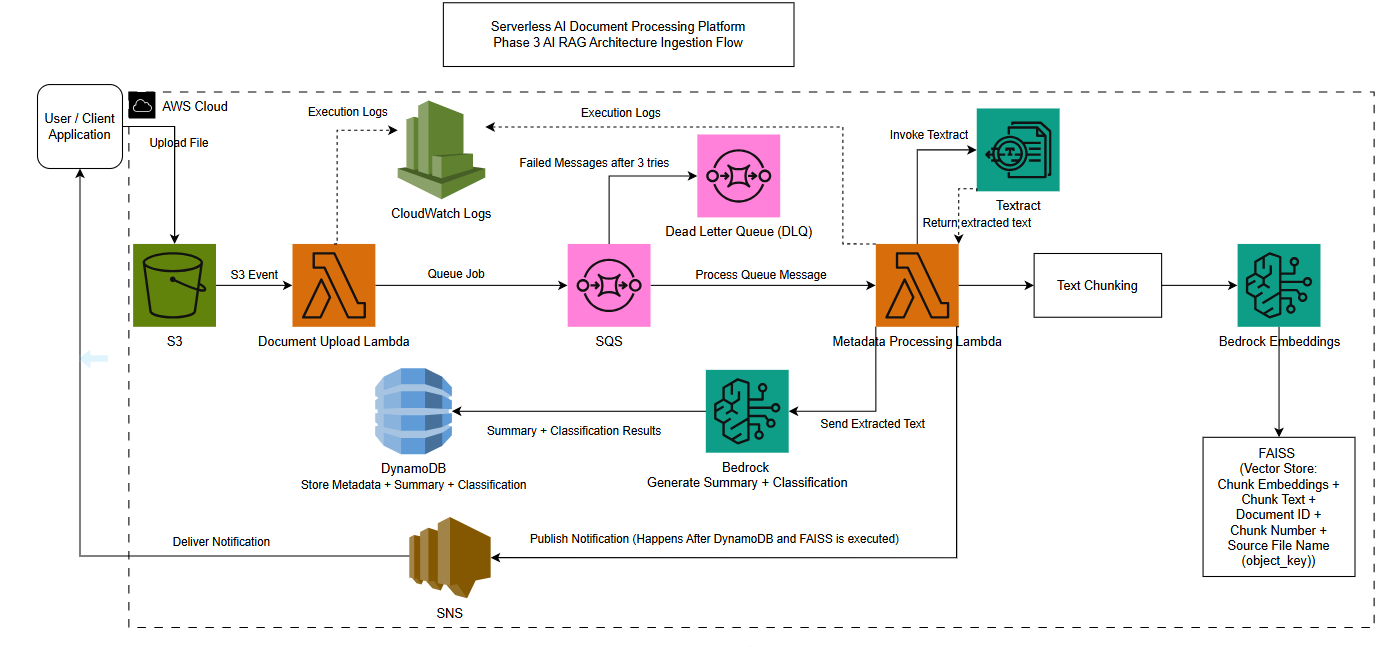
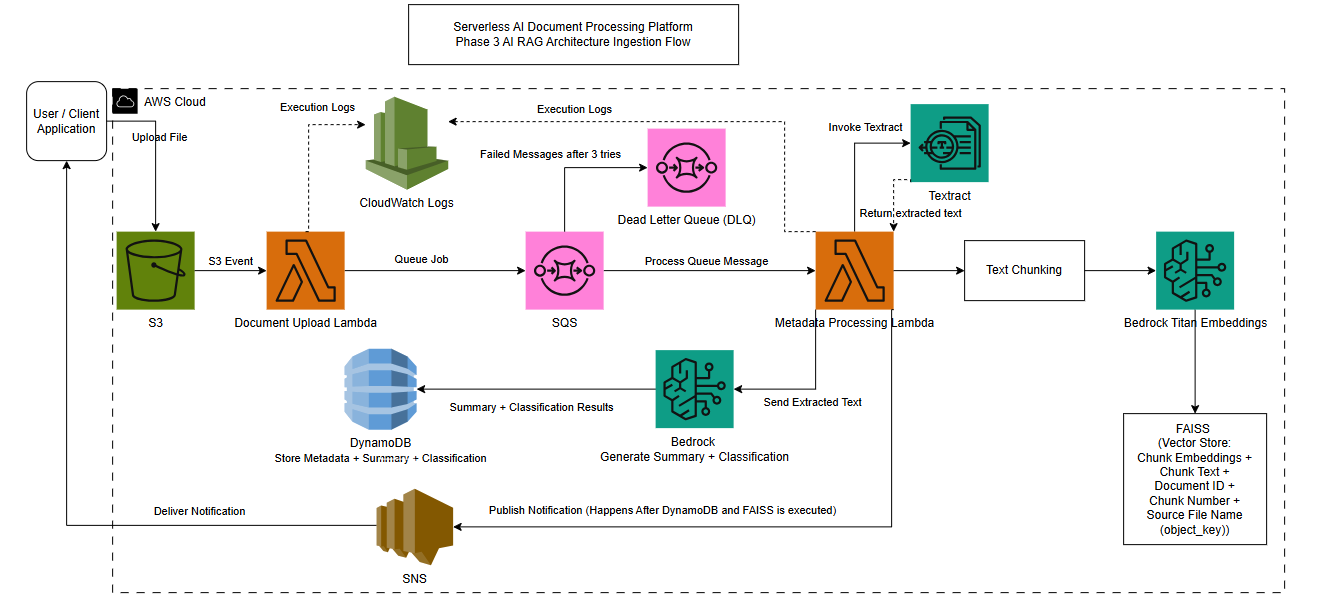
Store extracted Textract text in S3

diff --git a/metadata-processing-lambda/lambda_function.py b/metadata-processing-lambda/lambda_function.py
@@ -12,6 +12,9 @@ sns = boto3.client("sns")
 textract = boto3.client("textract")
 bedrock = boto3.client("bedrock-runtime")
 
+# For phase-3
+s3 = boto3.client("s3")
+
 TABLE_NAME = os.environ["TABLE_NAME"]
 SNS_TOPIC_ARN = os.environ["SNS_TOPIC_ARN"]
 
@@ -46,6 +49,20 @@ def lambda_handler(event, context):
 
         print("Extracted text from Textract:")
         print(extracted_text)
+
+        # For phase-3
+        processed_text_key = f"processed_text/{message['object_key'].rsplit('.', 1)[0]}.txt"
+
+        s3.put_object(
+            Bucket=message["bucket_name"],
+            Key=processed_text_key,
+            Body=extracted_text.encode("utf-8"),
+            ContentType="text/plain"
+        )
+
+        print("Extracted text saved to S3:")
+        print(processed_text_key)
+        
 
         prompt = f"""
         Analyze the following document.